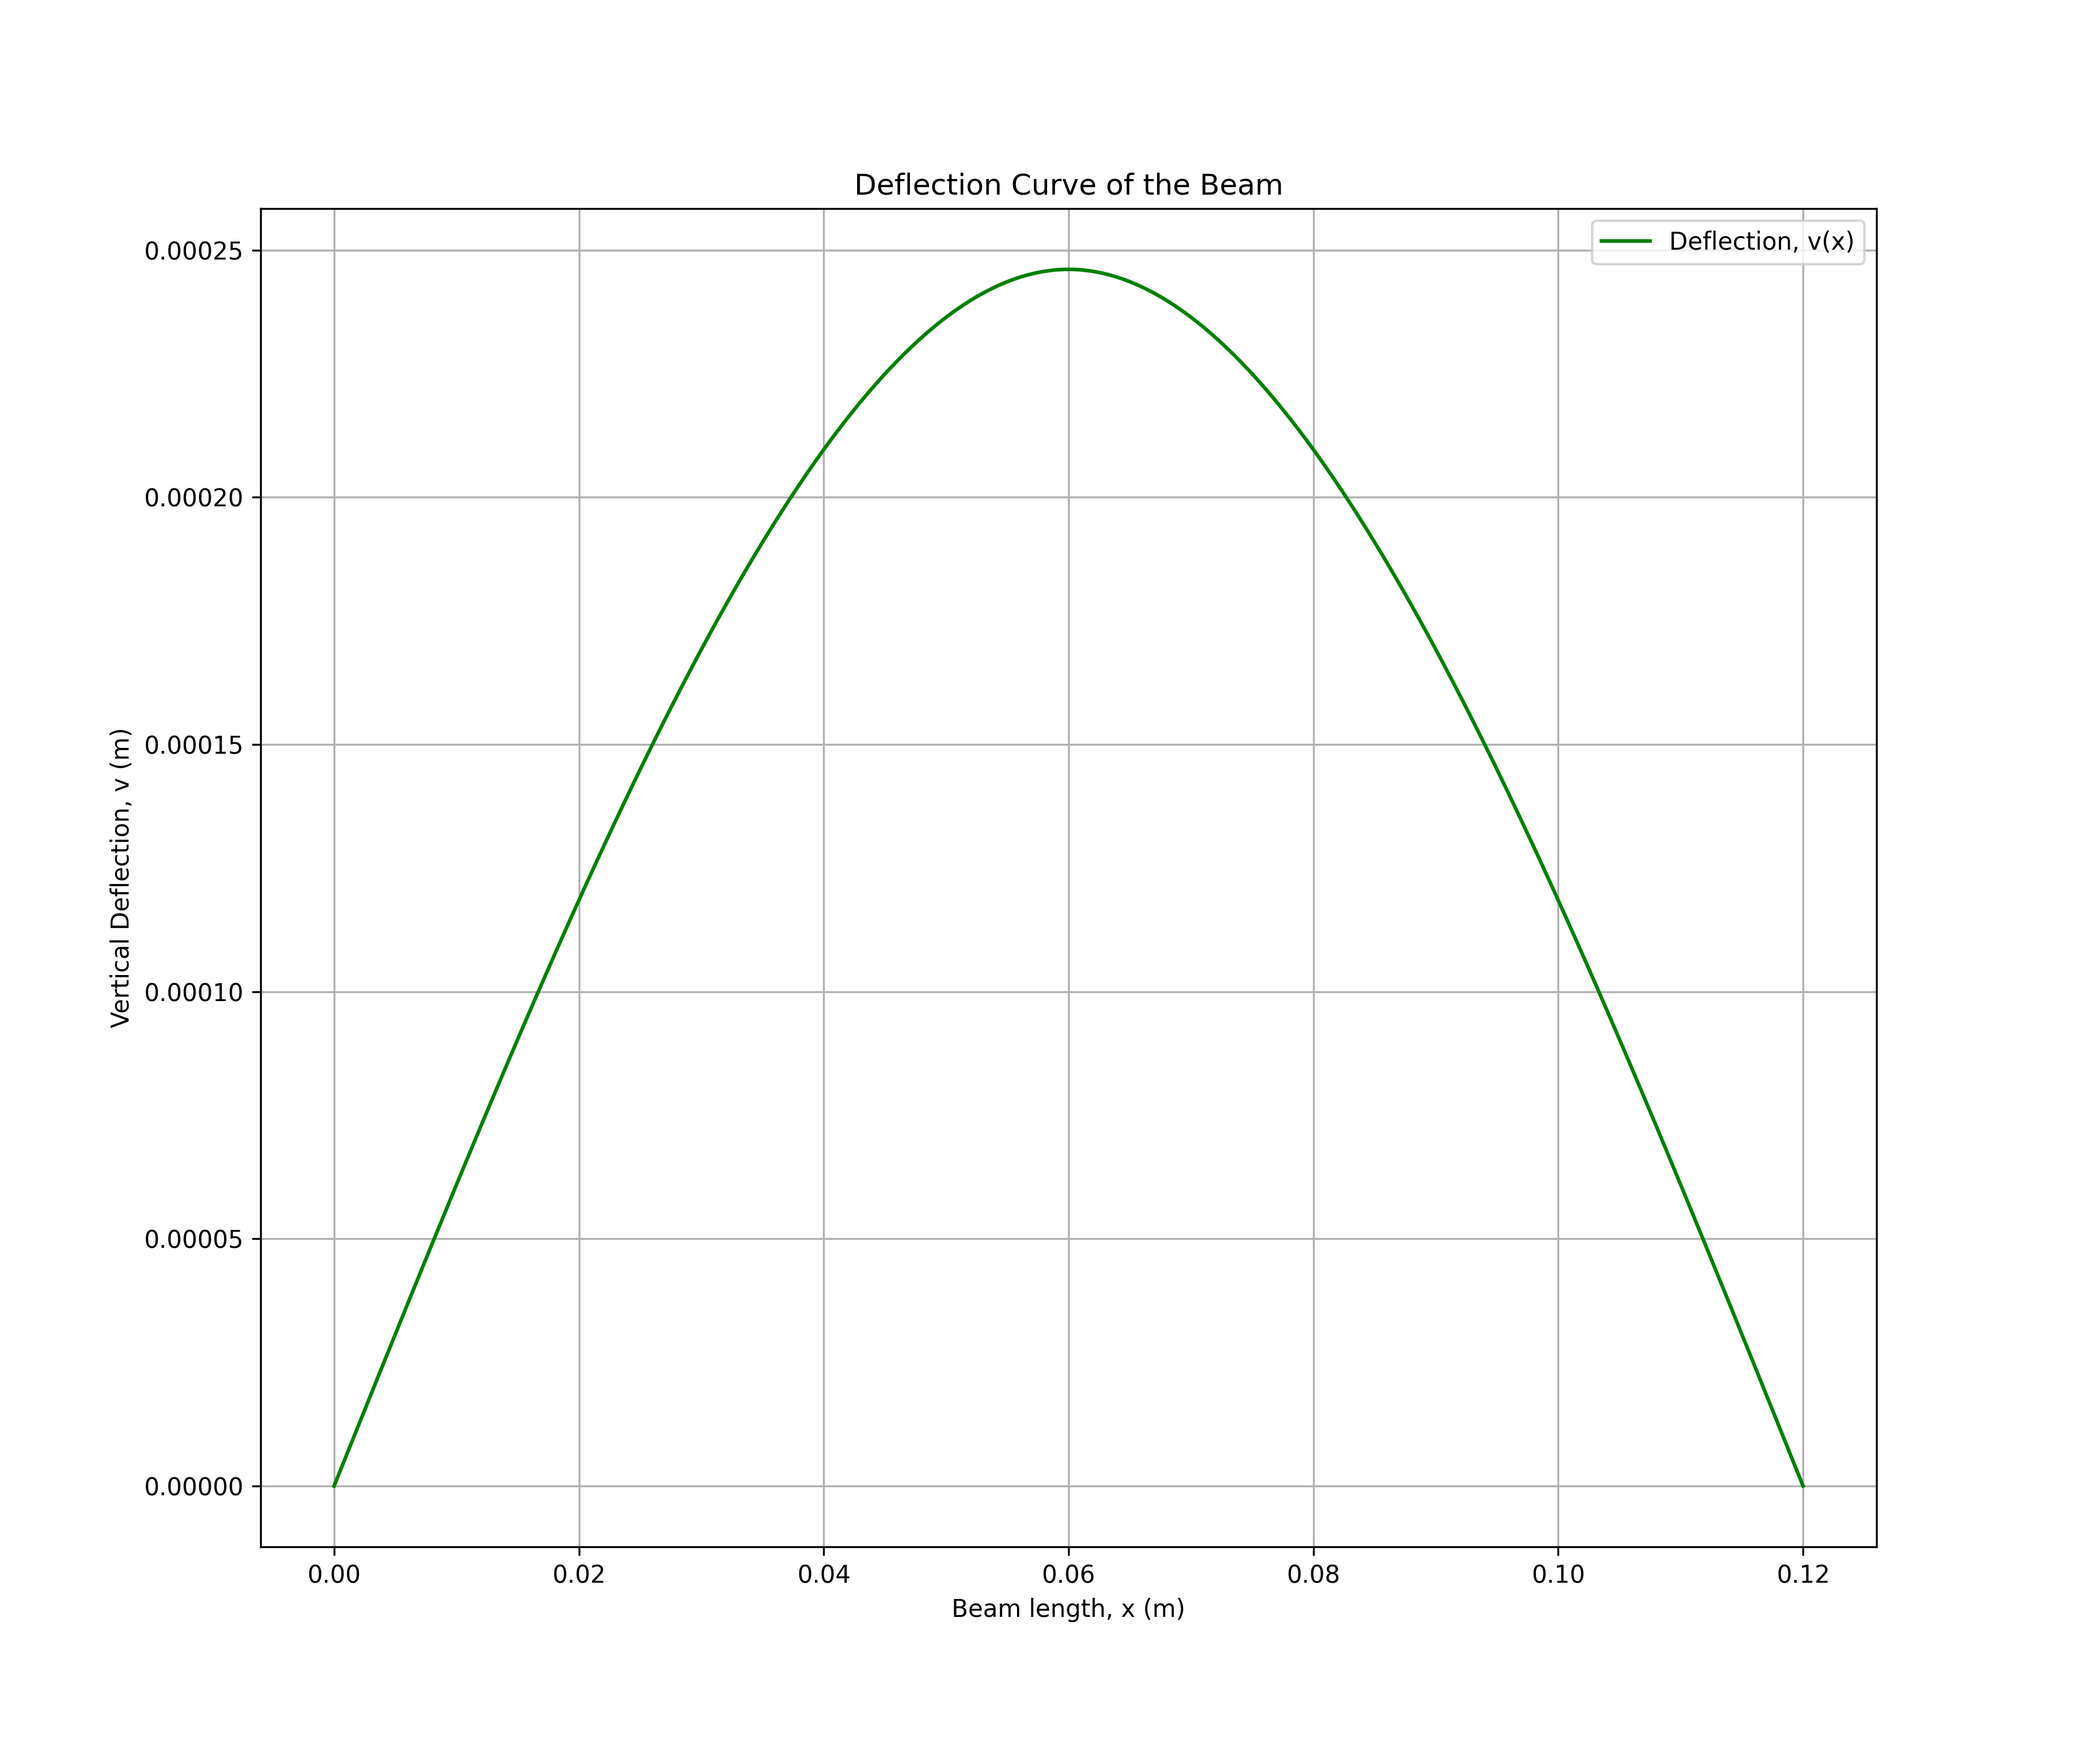
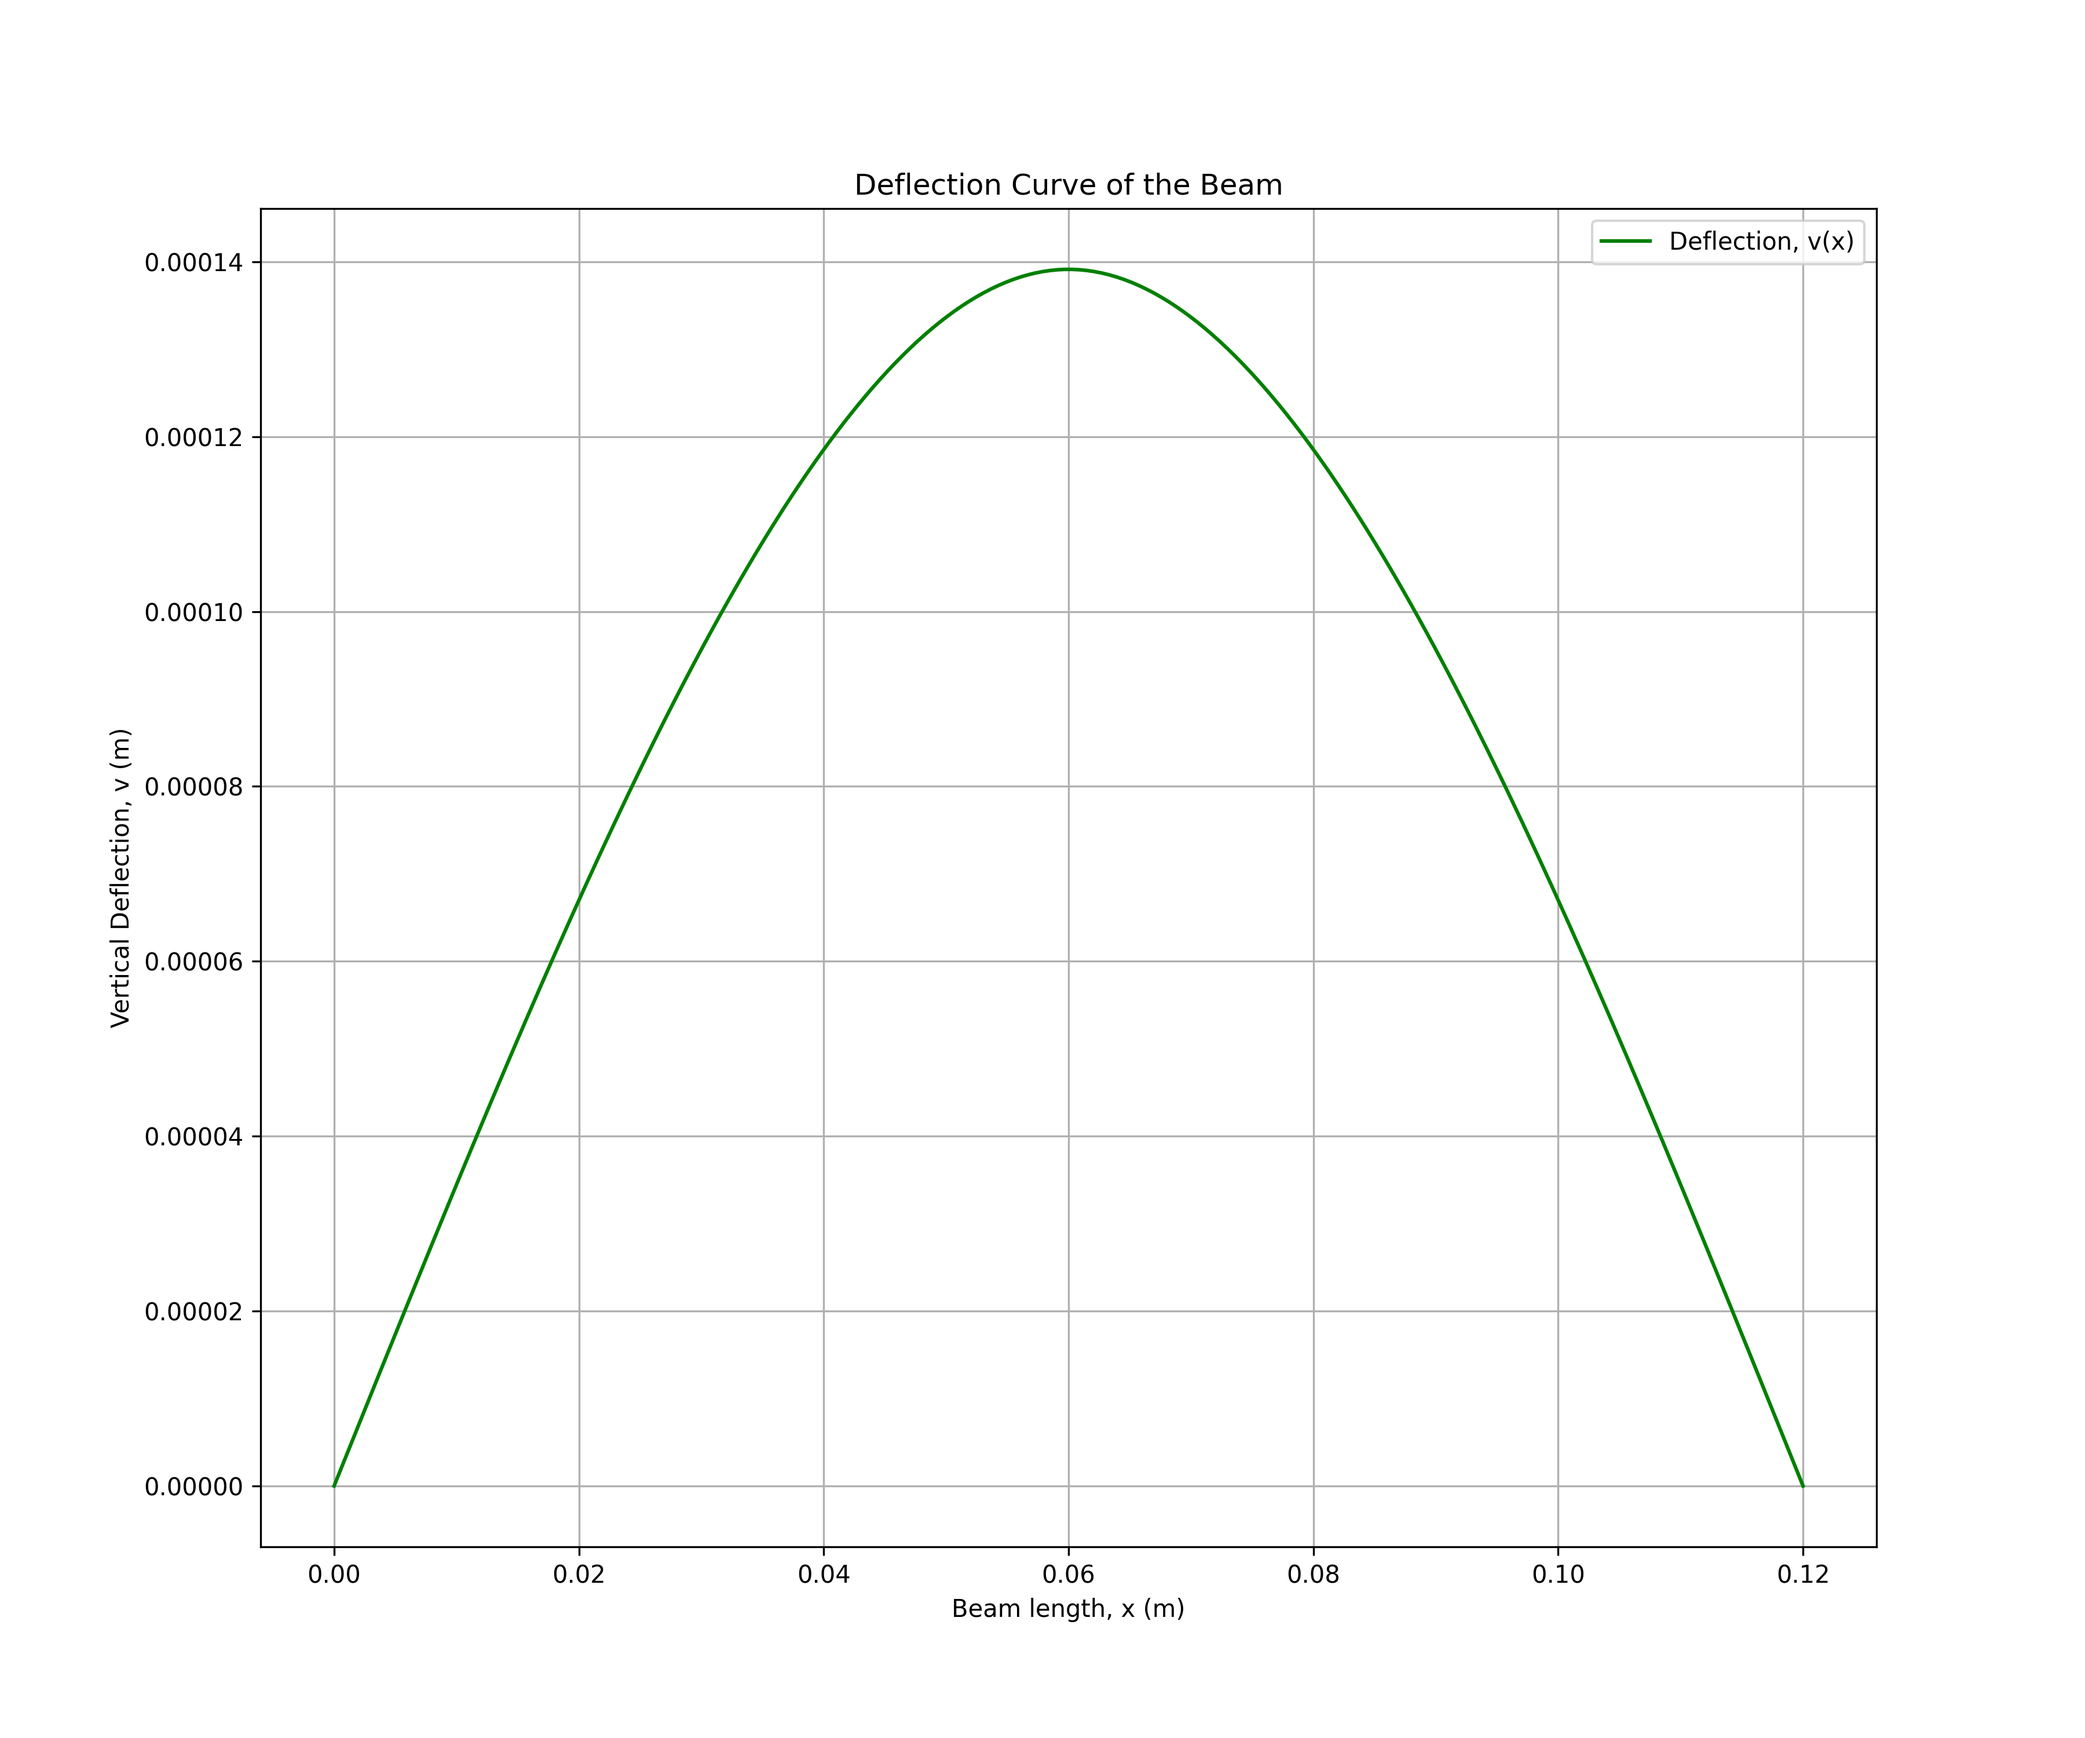
test run

diff --git a/Data_Pipeline/MechMat_Soln_3ptBending.py b/Data_Pipeline/MechMat_Soln_3ptBending.py
@@ -29,17 +29,17 @@ NOTE: It will also be used to approximate whether the case puts the beam in the 
 enter a value for X_coord as the position along the beam where you want to analyze the bending moment, shear force, and deflection.
 The value of X_coord is the distance from the left end of the beam to the point where you want to analyze the bending moment, shear force, and deflection.
 """
-F_applied = 4000  # Applied force in Newtons (example value)
+F_applied = 10000  # Applied force in Newtons (example value)
 x_coord = 0.03 # Position along the beam in meters (example value, 6.25 cm)
 
 # Beam geometry and material properties
 
 L = 0.12  # Beam length in meters (12 cm) (measured)
-width = 0.019  # meters (measured)
-height = 0.019 # meters (measured)
+width = 0.1  # meters (measured)
+height = 0.1 # meters (measured)
         
 # Note: The inner dimensions are only used if the beam is hollow. write 'None' if the beam is solid.
-inner_width = 0.013 #measured
+inner_width = None #measured
 inner_height = inner_width  # meters 
 
 #known/estimated material properties
@@ -238,7 +238,7 @@ def main():
 
     plt.tight_layout(rect=[0, 0, 1, 0.95])  # leave space for suptitle
     plt.suptitle(f"Strain Distributions in Cross-Section\nat x = {x_coord:.4f} m", fontsize=16)
-    plt.savefig(f"Data_Pipeline\Plots\strain_distributions_x={x_coord:.4f} m.png", dpi=300)  # Save the figure as a PNG file
+    #plt.savefig(f"Data_Pipeline\Plots\strain_distributions_x={x_coord:.4f} m.png", dpi=300)  # Save the figure as a PNG file
     
     # Plot 4-6: Stress distributions vs. y in cross‐section
     fig, axs = plt.subplots(1, 3, figsize=(24, 10))
@@ -270,7 +270,7 @@ def main():
 
     plt.tight_layout(rect=[0, 0, 1, 0.95]) 
     plt.suptitle(f"Stress Distributions in Cross-Section\nat x = {x_coord:.4f} m", fontsize=16)
-    plt.savefig(f"Data_Pipeline\Plots\stress_distributions_x={x_coord:.4f} m.png", dpi=300)  # Save the figure as a PNG file
+    #plt.savefig(f"Data_Pipeline\Plots\stress_distributions_x={x_coord:.4f} m.png", dpi=300)  # Save the figure as a PNG file
     
     # Plots 6-9: Heatmaps at the cross‐section specified
     ny_cs, nz = 50, 50
